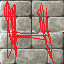
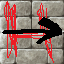
Rotation of hero's image

Changed region(s): [[0.0312, 0.25, 0.9688, 0.6875]]

diff --git a/src/core/model/GameObject.java b/src/core/model/GameObject.java
@@ -2,51 +2,51 @@ package core.model;
 
 public abstract class GameObject {
 
-    private float x;
-    private float y;
-    private float direction;
-    private float speed;
+    private double x;
+    private double y;
+    private double direction;
+    private double speed;
 
     public GameObject() {
 
     }
 
-    public GameObject(float x, float y, float direction, float speed) {
+    public GameObject(double x, double y, double direction, double speed) {
         this.x = x;
         this.y = y;
         this.direction = direction;
         this.speed = speed;
     }
 
-    public float getSpeed() {
+    public double getSpeed() {
         return speed;
     }
 
-    public void setSpeed(float speed) {
+    public void setSpeed(double speed) {
         this.speed = speed;
     }
 
-    public float getX() {
+    public double getX() {
         return x;
     }
 
-    public void setX(float x) {
+    public void setX(double x) {
         this.x = x;
     }
 
-    public float getY() {
+    public double getY() {
         return y;
     }
 
-    public void setY(float y) {
+    public void setY(double y) {
         this.y = y;
     }
 
-    public float getDirection() {
+    public double getDirection() {
         return direction;
     }
 
-    public void setDirection(float direction) {
+    public void setDirection(double direction) {
         this.direction = direction;
     }
 

diff --git a/src/core/view/Renderer.java b/src/core/view/Renderer.java
@@ -10,7 +10,6 @@ import core.model.GameObject;
 import core.model.Hero;
 import core.model.Wall;
 
-
 public class Renderer {
 
     ArrayList<GameObject> gameObjects;
@@ -28,9 +27,13 @@ public class Renderer {
     public void render(Graphics g) {
         for (GameObject gameObject : gameObjects) {
             if (gameObject instanceof Wall) {
-                g.drawImage(wallImage, gameObject.getX(), gameObject.getY());
+                g.drawImage(wallImage, (float)gameObject.getX(), (float)gameObject.getY());
             } else if (gameObject instanceof Hero) {
-                g.drawImage(heroImage, gameObject.getX(), gameObject.getY());
+                g.rotate((float)gameObject.getX(), (float)gameObject.getY(),
+                        (float)(gameObject.getDirection() / Math.PI * 180));
+                g.drawImage(heroImage, (float)gameObject.getX() - heroImage.getWidth() / 2,
+                        (float)gameObject.getY() - heroImage.getHeight() / 2);
+                //g.rotate(0, 0, 0); ???
             }
         }
     }

diff --git a/src/core/model/HeroManager.java b/src/core/model/HeroManager.java
@@ -25,4 +25,14 @@ public class HeroManager {
         }
     }
 
+    public void rotate(final int mouseX, final int mouseY) {
+        double angle;
+        if (mouseX - hero.getX() >= 0) {
+            angle = Math.atan((mouseY - hero.getY())/(mouseX - hero.getX()));
+        } else {
+            angle = Math.atan((mouseY - hero.getY())/(mouseX - hero.getX())) - Math.PI;
+        }
+        hero.setDirection(angle);
+    }
+
 }

diff --git a/src/core/model/Wall.java b/src/core/model/Wall.java
@@ -6,7 +6,7 @@ public class Wall extends GameObject {
         super();
     }
 
-    public Wall(float x, float y, float direction, float speed) {
+    public Wall(double x, double y, double direction, double speed) {
         super(x, y, direction, speed);
     }
 

diff --git a/src/core/model/Hero.java b/src/core/model/Hero.java
@@ -2,7 +2,7 @@ package core.model;
 
 public class Hero extends GameObject {
 
-    public Hero(float x, float y, float direction, float speed) {
+    public Hero(double x, double y, double direction, double speed) {
         super(x, y, direction, speed);
     }
 

diff --git a/src/core/controller/HeroController.java b/src/core/controller/HeroController.java
@@ -27,6 +27,8 @@ public class HeroController {
             heroManager.move(3, delta);
         }
 
+        heroManager.rotate(gc.getInput().getMouseX(), gc.getInput().getMouseY());
+
     }
 
 }
